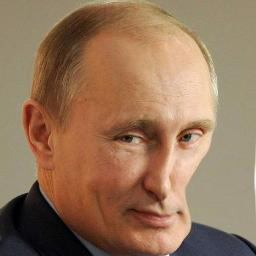
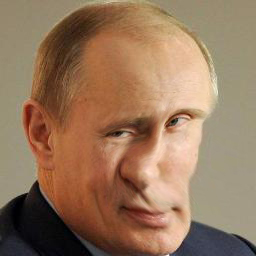
Add mouseup function for controlling which picture to show when hand smacks autocrat

Changed region(s): [[0.375, 0.375, 0.8438, 0.9375], [0.9688, 0.5938, 1.0, 0.8125]]

diff --git a/JavaScript_course_projects/whack_an_autocrat/js/script.js b/JavaScript_course_projects/whack_an_autocrat/js/script.js
@@ -8,7 +8,7 @@ const gitHubLink = "https://rawgit.com/SixStringsCoder/javascript_codeAcademy_co
             CONTENT
 ===========================*/
 const autocrats_club = ["putin", "duterte", "erdogan", "trump", "maduro", "mussolini", "mugabe", "stalin", "kim"];
-let isSmacked = false;
+
 
 // Audio SFX
 const whack = new Audio('./audio/smack.mp3');
@@ -30,6 +30,7 @@ const buildBoard = () => {
   picHandler(autocrats_club);
 }
 
+
 /*==========================
       APPEAR / DISAPPEAR
 ===========================*/
@@ -47,9 +48,8 @@ const picHandler = (arr) => {
     $('.picture').detach();
     picHandler(autocrats_club);
   }
-  // Set random delay for detaching the picture
-  const randomTime = Math.floor(Math.random() * 2500);
-  // console.log(randomTime);
+  // Set random delay to detaching/disappear the picture
+  const randomTime = Math.floor(Math.random() * 2000);
   setTimeout(disappear, randomTime);
 }
 
@@ -59,7 +59,7 @@ const picHandler = (arr) => {
 ===========================*/
 let points = 0;
 
-//  if the event equals class picture then play Audio
+//  if the event equals class picture, show smacked pic, play audio, change score
 $('#gameboard').mousedown(function(event) {
    if ( $(event.target).hasClass('picture') ) {
      $(`#${pickHole}`).html(`<img src=./images/${picAutocrat}_smacked.jpg class="picture" />`);
@@ -67,12 +67,19 @@ $('#gameboard').mousedown(function(event) {
      points += 10;
      $('#score').html(points);
    } else {
-     // ohYouMissed();
+     ohYouMissed();
      points -= 5;
      $('#score').html(points);
    }
 });
 
+$('#gameboard').mouseup(function(event) {
+   if ( $(event.target).hasClass('picture') ) {
+     $(`#${pickHole}`).html(`<img src=./images/${picAutocrat}.jpg class="picture" />`);
+   } else {
+     return false;
+   }
+});
 
 /*==========================
         START GAME
